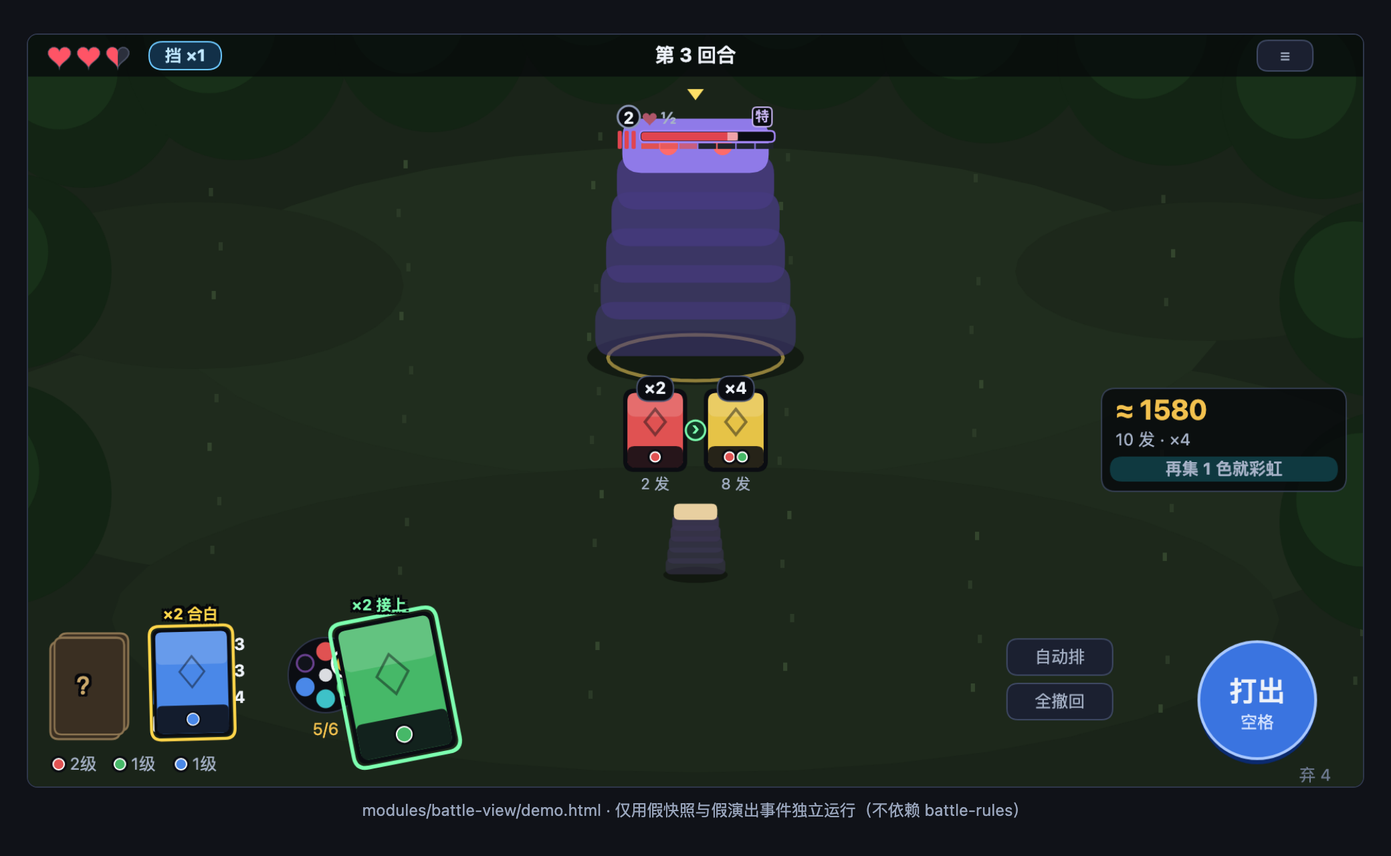
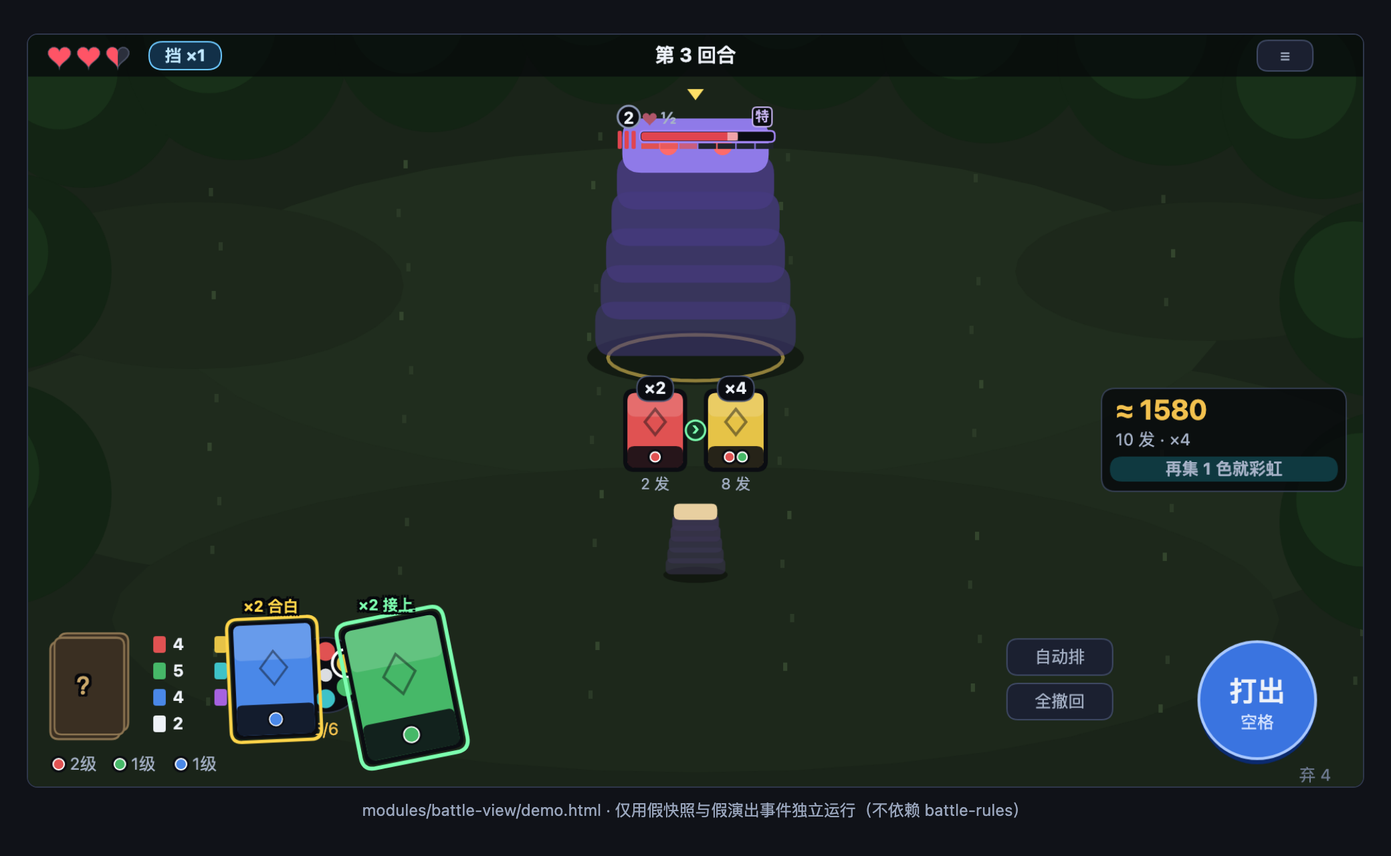
[claude] 摸牌第 4 版：先摸 2、不到 N 补到 N、回合开始最多 N+2；战斗键上写下回合几张；加攒牌假玩家

Changed region(s): [[0.0938, 0.6875, 0.3438, 0.9062]]

diff --git a/原型/neon/modules/battle-rules/engine.js b/原型/neon/modules/battle-rules/engine.js
@@ -27,7 +27,10 @@ import {
 } from './chain-math.js';
 
 const DEFAULT_CFG = Object.freeze({
-  drawMode: 'refill',
+  // 第 4 版 5.1（用户定的）：每回合先摸 2 张，不到 N 补到 N；回合开始手里最多 N + 2 张
+  drawMode: 'draw_floor',
+  drawPerTurn: 2,
+  handOverN: 2,
   freeKeepCount: 0,
   shieldActiveMultiplier: 0.75,
   shieldBrokenMultiplier: 1.5,
@@ -288,6 +291,21 @@ export function createBattle(startPacket, options = {}) {
     }
     hand.push(card);
     return { card, overflowed: false };
+  }
+
+  /** 第 4 版摸牌：手里留着 kept 张，回合开始先摸几张（不算「不到 N 补到 N」那步） */
+  function floorDrawCount(kept) {
+    const freeKeep = Math.max(0, (cfg.freeKeepCount || 0) + (ruleVal('extraFreeKeep') || 0));
+    const cap = Math.min(cfg.maxHandSize, player.drawTarget + (cfg.handOverN ?? 2) + freeKeep + bonusDrawNextTurn);
+    return Math.max(0, Math.min((cfg.drawPerTurn ?? 2) + bonusDrawNextTurn, cap - kept));
+  }
+
+  /** 手里留着 kept 张结束回合，下回合开始手里大概几张（不算牌堆摸空；给画面提示用） */
+  function nextTurnHandSize(kept) {
+    if (cfg.drawMode === 'draw_one') return Math.min(cfg.maxHandSize, kept + 1);
+    if (cfg.drawMode === 'draw_floor') return Math.max(player.drawTarget, kept + floorDrawCount(kept));
+    const freeKept = Math.min(kept, Math.max(0, (cfg.freeKeepCount || 0) + (ruleVal('extraFreeKeep') || 0)));
+    return Math.max(kept, Math.min(cfg.maxHandSize, player.drawTarget + freeKept + bonusDrawNextTurn));
   }
 
   function drawCards(count, colorFilter = null) {
@@ -807,6 +825,14 @@ export function createBattle(startPacket, options = {}) {
     if (cfg.drawMode === 'draw_one') {
       const toDraw = turn === 1 ? Math.max(1, Math.min(3, player.drawTarget)) : 1;
       drawCards(toDraw);
+    } else if (cfg.drawMode === 'draw_floor') {
+      // 第 4 版：先摸 2 张（加成的「下回合多补」也加在这），摸完不到 N 就补到 N。
+      // 回合开始手里最多 N + 2 张（「多留 1 张不占名额」这类加成再往上加）：管住「攒几回合一把打爆」。
+      // 回合中间「马上摸几张」不受这条管，照旧最多 12 张。
+      const toDraw = floorDrawCount(hand.length);
+      bonusDrawNextTurn = 0;
+      if (toDraw > 0) drawCards(toDraw);
+      if (hand.length < player.drawTarget) drawCards(player.drawTarget - hand.length);
     } else {
       // 补到 N 张；如开启 freeKeepCount，留下的前 K 张不占名额（第 3 版开关）
       const kept = hand.length;
@@ -869,6 +895,8 @@ export function createBattle(startPacket, options = {}) {
         maxHearts: player.maxHearts,
         drawTarget: player.drawTarget,
         maxHandSize: cfg.maxHandSize,
+        // 留着手里这些牌（链上的会打出去）结束回合，下回合开始手里几张（5.1 第 4 版，给画面提示）
+        nextTurnHand: nextTurnHandSize(hand.length),
         stats: {
           attack: getEffectiveStats().attack,
           damageBonus: getEffectiveStats().damageBonus + getEffectiveStats().hitPercent,

diff --git a/原型/neon/tools/sim-run.js b/原型/neon/tools/sim-run.js
@@ -1,5 +1,6 @@
 // 阶段 4 假玩家：从头跑一整趟（设计稿 10.4）。只用 battle-rules、run-rules、content，不碰画面。
 // 用法：node tools/sim-run.js [--runs 300]
+// 摸牌照第 4 版 5.1：先摸 2，不到 N 补到 N，回合开始最多 N + 2；有一组「攒牌」的假玩家，看攒牌是不是永远最好。
 //
 // 假玩家怎么走：每回合先用掉马上用的牌，再「自动帮排·最长」打出去；奖励挑第一个（加成挑跟已有路子对得上的）；
 // 出口：心 ≤ 1 就走「回去」，否则往里走；歇脚先回心；事件挑第一个能选的。
@@ -29,11 +30,22 @@ function playUsefulInstants(battle) {
 // 像真人：一半回合排到最好，一半回合只照手里的顺序排（设计稿 9.2 按「真人排到七成」算）
 let HUMAN = false;
 let humanTick = 0;
+// 攒牌（5.1 第 4 版要看的）：手里没到 N + 2、怪也不是下回合就出手，就一张不打，攒着一把打
+let HOARD = false;
+// 试别的摸牌数：DRAW=1 OVER=1 node tools/sim-run.js
+const DRAW_OVERRIDE = process.env.DRAW ? { drawPerTurn: Number(process.env.DRAW), handOverN: Number(process.env.OVER ?? 2) } : null;
 function fight(packet) {
+  if (DRAW_OVERRIDE) packet = { ...packet, rulesConfig: { ...packet.rulesConfig, ...DRAW_OVERRIDE } };
   const b = createBattle(packet);
   let out = null;
   for (let t = 0; t < 40 && !b.getResult(); t++) {
     playUsefulInstants(b);
+    if (HOARD) {
+      const snap = b.getSnapshot();
+      const full = snap.hand.length >= snap.player.drawTarget + (DRAW_OVERRIDE?.handOverN ?? 2);
+      const danger = snap.monsters.some((m) => m.alive !== false && m.countdown <= 1);
+      if (!full && !danger) { out = b.commitChain(); continue; }
+    }
     if (HUMAN && (humanTick++ % 2 === 1)) {
       for (const c of b.getSnapshot().hand) if (!c.hidden && c.usage === 'chain') b.queueCard(c.uid);
     } else b.autoArrange('longest');
@@ -130,6 +142,9 @@ HUMAN = true;
 report('像真人（一半回合不排）· C 级武器', { equipped: { weapon: 'gear_c_weapon_1', armor: null, trinket: null } });
 report('像真人（一半回合不排）· 免费基础装', { equipped: { weapon: null, armor: null, trinket: null } });
 HUMAN = false;
+HOARD = true;
+report('攒牌（攒到 N + 2 张才打，怪要出手就打）· C 级武器', { equipped: { weapon: 'gear_c_weapon_1', armor: null, trinket: null } });
+HOARD = false;
 report('C 级武器，第 1 层打完就回去（C 级任务的走法）', { equipped: { weapon: 'gear_c_weapon_1', armor: null, trinket: null }, returnAtLayer: 1 });
 
 // ───────── 金币：新手按「死一半」算 100 趟（设计稿 8.3、9.2）─────────

diff --git a/原型/neon/modules/battle-rules/test/battle-rules.test.js b/原型/neon/modules/battle-rules/test/battle-rules.test.js
@@ -415,3 +415,31 @@ test('摸牌开关（draw_one 与 freeKeepCount）正常工作', () => {
   const r2 = b2.commitChain();
   assert.equal(r2.snapshot.hand.length, 5);
 });
+
+test('第 4 版摸牌（draw_floor）：先摸 2，不到 N 补到 N，回合开始最多 N + 2', () => {
+  const deck = Array.from({ length: 40 }, (_, i) => makeGem(`g-${i}`, 'red', ['red']));
+  const b = createBattle(makePacket({
+    deck,
+    drawTarget: 4,
+    rulesConfig: { drawMode: 'draw_floor', drawPerTurn: 2, handOverN: 2 },
+    monsters: [makeMonster({ maxHp: 9999999 })],
+  }));
+  const handLen = () => b.getSnapshot().hand.length;
+  const play = (n) => { b.getSnapshot().hand.slice(0, n).forEach((c) => b.queueCard(c.uid)); return b.commitChain().snapshot.hand.length; };
+  assert.equal(handLen(), 4, '起手补到 N');
+  assert.equal(play(0), 6, '一张不打：留 4 摸 2');
+  assert.equal(play(0), 6, '再不打：到 N + 2 就不摸了');
+  assert.equal(play(3), 5, '打 3 留 3：摸 2');
+  assert.equal(play(4), 4, '打 4 留 1：摸 2 只有 3，补到 N');
+
+  // N 跟着养成涨，上限一起涨（摸牌加成不会被卡死）
+  const b5 = createBattle(makePacket({
+    deck,
+    drawTarget: 5,
+    rulesConfig: { drawMode: 'draw_floor', drawPerTurn: 2, handOverN: 2 },
+    monsters: [makeMonster({ maxHp: 9999999 })],
+  }));
+  assert.equal(b5.getSnapshot().hand.length, 5);
+  assert.equal(b5.commitChain().snapshot.hand.length, 7);
+  assert.equal(b5.commitChain().snapshot.hand.length, 7);
+});

diff --git a/原型/neon/modules/content/index.js b/原型/neon/modules/content/index.js
@@ -107,9 +107,11 @@ export const DECK_LOADOUTS = Object.freeze({
   }),
 });
 
-/** 默认规则开关（对应设计稿第 3 版默认值） */
+/** 默认规则开关（对应设计稿默认值；摸牌是第 4 版 5.1） */
 export const DEFAULT_RULES_CONFIG = Object.freeze({
-  drawMode: 'refill',
+  drawMode: 'draw_floor',
+  drawPerTurn: 2,
+  handOverN: 2,
   freeKeepCount: 0,
   shieldActiveMultiplier: 0.75,
   shieldBrokenMultiplier: 1.5,
@@ -176,6 +178,8 @@ export function createBattlePacket({
     seed,
     rulesConfig: {
       drawMode: mergedConfig.drawMode,
+      drawPerTurn: mergedConfig.drawPerTurn,
+      handOverN: mergedConfig.handOverN,
       freeKeepCount: mergedConfig.freeKeepCount,
       shieldActiveMultiplier: mergedConfig.shieldActiveMultiplier,
       shieldBrokenMultiplier: mergedConfig.shieldBrokenMultiplier,
@@ -226,6 +230,8 @@ export function createRunContent() {
     gearDefs: GEAR_DEFS,
     defaultRules: {
       drawMode: DEFAULT_RULES_CONFIG.drawMode,
+      drawPerTurn: DEFAULT_RULES_CONFIG.drawPerTurn,
+      handOverN: DEFAULT_RULES_CONFIG.handOverN,
       freeKeepCount: DEFAULT_RULES_CONFIG.freeKeepCount,
       shieldActiveMultiplier: DEFAULT_RULES_CONFIG.shieldActiveMultiplier,
       shieldBrokenMultiplier: DEFAULT_RULES_CONFIG.shieldBrokenMultiplier,

diff --git a/原型/neon/app/scenes/lobby.js b/原型/neon/app/scenes/lobby.js
@@ -223,7 +223,7 @@ export function createLobbyScene(context) {
 
   function settingRows() {
     return [
-      { label: '摸牌', value: rulesConfig.drawMode === 'refill' ? '每回合补到 N 张' : '每回合摸 1 张（第 1 版）', click: () => { rulesConfig.drawMode = rulesConfig.drawMode === 'refill' ? 'draw_one' : 'refill'; } },
+      { label: '摸牌', value: ({ draw_floor: '摸 2，不到 N 补到 N（第 4 版）', refill: '补到 N 张（第 3 版）', draw_one: '每回合摸 1 张（第 1 版）' })[rulesConfig.drawMode] || rulesConfig.drawMode, click: () => { const order = ['draw_floor', 'refill', 'draw_one']; rulesConfig.drawMode = order[(order.indexOf(rulesConfig.drawMode) + 1) % order.length]; } },
       { label: '每回合补到几张（N）', value: `${N_VALUES[drawTargetIdx]} 张`, click: () => { drawTargetIdx = (drawTargetIdx + 1) % N_VALUES.length; } },
       { label: '留 1 张不占名额', value: rulesConfig.freeKeepCount > 0 ? '开' : '关', click: () => { rulesConfig.freeKeepCount = rulesConfig.freeKeepCount > 0 ? 0 : 1; } },
       {

diff --git a/原型/neon/modules/battle-view/view.js b/原型/neon/modules/battle-view/view.js
@@ -415,6 +415,12 @@ export function createBattleView(options = {}) {
     txt(r, casting ? '…' : (snap.chain.length ? '打出' : '结束'), C.cx, C.cy - 6, { size: F.l, weight: 'bold', align: 'center' });
     txt(r, casting ? (speed > 1 ? '再点跳过' : '点画面加速') : '空格', C.cx, C.cy + 16, { size: F.xs, align: 'center', color: '#d6e4ff' });
     txt(r, `弃 ${snap.discardPileCount}`, C.cx + 30, C.cy + 54, { size: F.xs, color: T.text3 });
+    // 留几张、下回合手里几张（5.1 第 4 版：留牌也能摸，但回合开始最多 N + 2）
+    if (!casting && snapshot.phase === 'player_input' && Number.isFinite(snap.player?.nextTurnHand)) {
+      const kept = snap.hand.length;
+      const line = kept ? `留 ${kept} 张 → 下回合 ${snap.player.nextTurnHand} 张` : `下回合 ${snap.player.nextTurnHand} 张`;
+      txt(r, line, C.cx, C.cy - C.r - 12, { size: F.xs, align: 'center', color: kept ? '#d6e4ff' : T.text3 });
+    }
 
     // 不在播放里的小字（马上用的功能牌等）
     for (let i = notes.length - 1; i >= 0; i--) {

diff --git a/原型/neon/modules/shared/contracts.js b/原型/neon/modules/shared/contracts.js
@@ -380,8 +380,11 @@ export function validateBattleStartPacket(packet, actionTable = DEFAULT_ACTION_T
     if (!isPlainObject(cfg)) {
       errors.push('rulesConfig 如果提供，必须是对象');
     } else {
-      if (cfg.drawMode !== undefined && !['refill', 'draw_one'].includes(cfg.drawMode)) {
-        errors.push('rulesConfig.drawMode 只能是 refill 或 draw_one');
+      if (cfg.drawMode !== undefined && !['draw_floor', 'refill', 'draw_one'].includes(cfg.drawMode)) {
+        errors.push('rulesConfig.drawMode 只能是 draw_floor、refill 或 draw_one');
+      }
+      for (const k of ['drawPerTurn', 'handOverN']) {
+        if (cfg[k] !== undefined && !isNonNegativeInt(cfg[k])) errors.push(`rulesConfig.${k} 必须是非负整数`);
       }
       if (cfg.freeKeepCount !== undefined && !isNonNegativeInt(cfg.freeKeepCount)) {
         errors.push('rulesConfig.freeKeepCount 必须是非负整数');

diff --git a/设计/设计.md b/设计/设计.md
@@ -9,7 +9,7 @@
 > - 标「**第 2 版改**」的，是照第 1 轮审核改的。第 2 版标「待用户点头」的几条，第 3 版用户都点了头。
 > - 标「**第 3 版改**」的，是照第 2 轮审核改的，用户已经按倾向点了头。
 > - 第 8 节以后（任务、金币、冒险家等级、卡册、数值、工程）是一次写完的，用户按自己的意见改过一轮。第 8~10 节第 3 版用户都确认了。
-> - **第 4 版**（2026-11-23）：原型阶段 1~4 做完、用户试玩以后，把照倾向先做的内容一起定了（用户说「按你的设计来」），写进 9.3；画面改成按 1920×1080 设计（10.6，用户定的）；看门的、第 2 层精英的血照阶段 4 假玩家的结果降了（9.2）。
+> - **第 4 版**（2026-11-23）：摸牌改成「先摸 2 张、不到 N 补到 N、回合开始最多 N + 2」（5.1，用户定的）。原型阶段 1~4 做完、用户试玩以后，把照倾向先做的内容一起定了（用户说「按你的设计来」），写进 9.3；画面改成按 1920×1080 设计（10.6，用户定的）；看门的、第 2 层精英的血照阶段 4 假玩家的结果降了（9.2）。
 > - **设计稿和原型要对得上**（用户 2026-11-23 定的）：用户拍板的事，同一次提交里设计稿和原型一起改。原型暂时跟这份不一样的地方，记在原型自己的 `偏离.md`。
 > - 游戏暂叫 **code00**，原型阶段什么都不取名。
 
@@ -85,7 +85,7 @@
   - 带着任务物品活着回去，在工会提交任务换金币，买会磨损的装备、雇只管一趟的队友，再出发。
 - **一句话体验**：每一趟攒出一套「这把才有」的打法，打到后面数字炸开；死了回到大厅，也总有新东西让人想再进去一趟。
 - **一趟**：10~25 分钟，看接的任务要走多深；一个区接着往下一个区走，会更长。一个地点分三个区、六层，两层一个看门的；每个区有自己的入口，接什么等级的任务就从哪个区进（第 3 版定）。
-- **一仗**：1~3 分钟，回合不限时。每回合把手牌补到 N 张（N 从 4 起，养成最多到 8），出牌不限张数，一回合排一条链打出去。
+- **一仗**：1~3 分钟，回合不限时。每回合先摸 2 张、不到 N 张补到 N 张（N 从 4 起，养成最多到 8；回合开始最多 N + 2 张），出牌不限张数，一回合排一条链打出去。
 - **原型**：画面全用色块；不取名，牌和怪只写功能。
 
 ---
@@ -161,7 +161,7 @@
 ### 5.1　一回合
 
 1. **回合开始**，按这个先后（**第 3 版补**）：
-   1. 把手牌补到 N 张；
+   1. 摸牌：先摸 2 张，摸完不到 N 张就补到 N 张（**第 4 版改**，细节看下表）；
    2. 怪的「每回合开始」特性，比如换盾的颜色、遮住一张手牌；
    3. 玩家这边加成、装备的「每回合开始」效果；
    4. 「出牌前」出手的队友出手。
@@ -172,14 +172,15 @@
 
 | 项 | 规则 |
 |---|---|
-| 摸牌（**第 2 版改，第 3 版用户点了头**） | 每回合开始，把手牌补到 N 张。第 1 回合也一样，所以起手就是 N 张。N 从 4 起：一趟里最多 +2，永久养成 +1，稀有装备 +1，最多 8。摸牌是养成的重点（用户定的），N 就是那条养成线 |
-| 手牌 | 没打的留到下回合，**占名额**：留了 2 张，下回合只补 N − 2 张。所以留牌不会让链变长，只为下回合的颜色、凑彩虹。「马上摸 N 张」这类效果可以让这一回合超过 N 张，但手里最多 12 张。**照原型**（第 3 版补）：满 12 张以后再摸到的，直接进弃牌堆；回合开始手里已经有 N 张或更多，就不补，也不弃 |
-| 留牌（**第 3 版定**） | 留 1 张，这回合的发数就少一半以上，下回合也不会多（第 2 轮汇总第 1 节）。所以基础规则下**几乎每回合全打**，动脑的地方在排顺序、合白还是攒彩虹、先破盾。留牌只当一条路子（6.1），靠「留着的牌不占名额」这类加成撑起来 |
+| 摸牌（**第 4 版改，用户定的**） | 每回合开始**先摸 2 张**，摸完手里不到 N 张就**补到 N 张**；**回合开始时手里最多 N + 2 张**，到了就不再摸（「多留 1 张不占名额」这类加成、「下回合多补 1 张」再往上加）。第 1 回合手里是空的，所以起手就是 N 张。N 从 4 起：一趟里最多 +2，永久养成 +1，稀有装备 +1，最多 8。摸牌是养成的重点（用户定的），N 就是那条养成线 |
+| 手牌 | 没打的留到下回合。N = 4 时：留 0 张下回合 4 张，留 2 张还是 4 张，留 3 张 5 张，留 4 张 6 张，再不打也停在 6 张。上限跟着 N 涨（N = 5 就是 7 张），所以摸牌养成不会被卡住。回合中间「马上摸 N 张」这类效果不受 N + 2 管，但手里最多 12 张。**照原型**（第 3 版补）：满 12 张以后再摸到的，直接进弃牌堆；回合开始手里已经有 N 张或更多，就不补，也不弃 |
+| 留牌（**第 4 版改**） | 用户试玩：第 3 版留着的牌占名额，留 4 张下回合一张不补，等于逼着全打。第 4 版改成留着也摸 2 张，「这回合少打、下回合大打」是一个真的选择；上限 N + 2 管住「攒几回合一把打爆」 |
 | 心 | 只有主角有心，起手 3 颗（用户定的：主角用心，队友不掉血）。心跨片带着走，一趟里不会自动回满 |
 | 输赢 | 怪的血条全打空就赢；主角的心掉完，这一趟就死了。没有回合上限，不能逃跑 |
 
 - **为什么改**：第 1 版是「开战 3 张、每回合摸 1 张、手牌留着」，再加上倍率 ×2，「前三回合不出牌、第 4 回合一把打完」就永远最好。两家审核各自算出来都是这个结果（汇总第 1 节）。用户原型本来就是「每回合补到 8 张」，没有这个毛病。
-- **阶段 1 把摸牌规则做成开关**：补到 N 张（这一版）/ 第 1 版的每回合摸 1 张，用户各打 10 分钟再定。
+- **阶段 1 把摸牌规则做成开关**：试打台里能切第 4 版 / 第 3 版补到 N 张 / 第 1 版每回合摸 1 张。
+- **第 4 版的风险（假玩家量过，等用户看）**：倍率一张张翻，6 张一条链比两条 4 张的打得多得多。「攒到 6 张才打、怪要出手就打」的假玩家打第 2 层看门的 4.8 回合，每回合全打的要 7.4 回合，**攒牌明显更好**。改成「先摸 1 张、上限 N + 2」或「先摸 2 张、上限 N + 1」，攒牌跟全打就差不多了（7.3、7.2 回合）。数在 `原型/neon/shots/sim-run.txt`，用户先试手感再定。
 - **阶段 1 再加一个开关**（第 3 版加）：每回合可以留 1 张，不占名额。倍率一路翻，牌越集中在一回合打越赚，留 1 张往后挪一回合大约多 25%，所以这个开关可能让「每回合都留 1 张」变成新的永远最好。先用假玩家看，再给用户打。
 
 ### 5.2　宝石牌组和色环接链（用户原型的规则）
@@ -453,7 +454,7 @@
 | 功能牌 | 混进牌组。功能牌越多，摸到宝石就越少，所以不是越多越好 |
 | 加成 | 不占牌组，原型不设上限，摆在界面一边随时能看 |
 | 宝石等级 | 哪个颜色打得多，哪个颜色就越疼，每趟从 1 级起 |
-| N（每回合补到几张） | 最贵的东西，一趟里最多 +2 |
+| N（每回合至少有几张） | 最贵的东西，一趟里最多 +2 |
 | 属性 | 拿一次涨一截 |
 | 心 | 靠回心类的东西回；上限平时靠装备，极少数加成能涨 |
 
@@ -470,7 +471,7 @@
 | 项 | 起手 |
 |---|---|
 | 心 | 3 颗 |
-| 摸牌 | 每回合补到 4 张（第 2 版改） |
+| 摸牌 | 先摸 2 张、不到 4 张补到 4 张，回合开始最多 6 张（第 4 版改） |
 | 攻击 | 主角底子 + 装备 |
 | 增伤 | 0 |
 | 暴击 | 10%，每发 ×1.5 |
@@ -997,7 +998,7 @@
 
 | 什么 | 什么时候要 |
 |---|---|
-| **用户试玩提的（第 4 版）**：没打的牌留在手里占名额，留 4 张下回合一张不补，等于逼着全打。要不要改成留着也补牌、补多少（会碰到 5.1 防「攒几回合一把打爆」的那条） | 现在 |
+| 摸牌的两个数（5.1 第 4 版）：先摸几张、上限比 N 多几张。现在是 2 和 2，假玩家说攒牌太赚，倾向改成先摸 1 张或上限 N + 1，等用户试手感 | 现在 |
 | **没采纳的审核意见**，用户要是想要再说：倍率改阶梯、看门的血压低、群攻打六七成（理由见审核汇总） | 阶段 1 之前 |
 | 功能牌要不要单独一个牌堆（neon）。第 3 版无色的改成补摸 1 张，占名额的问题先这么解；阶段 1 看功能牌一仗能不能摸到、够不够用再说 | 阶段 1 以后 |
 | 「先付代价」的出口（claude，借哈迪斯的混沌门）：付什么、换什么 | 阶段 2 以后 |
@@ -1012,7 +1013,7 @@
 
 第 1 版的 10 条，审核后重排了。前四条是第 1 版漏掉、审核找出来的。
 
-1. **补到 N 张以后，留牌没分量**：第 2 轮算实了，留 1 张亏近六成，基础规则就是「几乎全打」（第 3 版接受了）。剩下的风险：「留牌」那条路子靠加成撑不撑得起来；「留 1 张不占名额」的开关会不会变成每回合都留。还有一样：「马上摸 N 张」能把手牌撑到 12 张，再夹「倍率 ×2」和彩虹，后期一回合的发数可能上万，阶段 1 压测要放进去。
+1. **攒牌**（第 4 版重写）：第 4 版留着也摸 2 张、上限 N + 2，假玩家攒到 6 张才打比每回合全打快得多（5.1）。要么把先摸的张数降到 1，要么上限降到 N + 1，等用户试手感。以下是第 3 版的：**补到 N 张以后，留牌没分量**：第 2 轮算实了，留 1 张亏近六成，基础规则就是「几乎全打」（第 3 版接受了）。剩下的风险：「留牌」那条路子靠加成撑不撑得起来；「留 1 张不占名额」的开关会不会变成每回合都留。还有一样：「马上摸 N 张」能把手牌撑到 12 张，再夹「倍率 ×2」和彩虹，后期一回合的发数可能上万，阶段 1 压测要放进去。
 2. **「先破还是先打」有没有分量**：全打以后削多少盾是摸牌定的，玩家只能选排的顺序。第 3 版去掉了合白削盾、破盾改推 1 格、盾加厚，看门的不会再被一直推着打不出手。但取舍可能还是太小，阶段 1 用「按破盾排」对「按最长的链排」两种假玩家量。
 3. **慢慢往「算死」那边靠**：心少、怪下一手全亮、牌堆剩几张全显示，玩家会去算「怎么一点血都不掉」。补到 N 张以后进的牌多、随机多一点，但还要看试玩。
 4. **每层的坡**：第 3 版改成分区入口，同一区里两层只差 2~3 倍，跨区 12~14 倍。纸面上「再往第 2 层赌一把」有得赌了，但一层只有两三次奖励，赌不赌得赢要看加成给得够不够，阶段 2 量每层的通过率。另外深处区一个区就要换两档装备，SS 换 SSS 那一下单发 ×2，阶段 4 模拟器看会不会变成「不换装备就别来」。

diff --git a/进度.md b/进度.md
@@ -11,10 +11,13 @@
   - 修了：林子里藏着的东西、任务物品原来可能放在最上边走不到、跟出口牌子叠着，现在都挪进场地里；走近了下面写一行「怎么拿」。
 - **新规矩**：设计稿和原型要对得上，用户拍板的同一次提交里一起改（`CLAUDE.md` 第 3 节）。
 
-**下一步**：跟用户定「没打的牌占名额、逼着全打」（用户试玩提的，设计稿第 11 节第一行）。会碰到 5.1 防「攒几回合一把打爆」的那条，算设计改动，要用户挑方案再改。
+- **摸牌改了（用户定的，设计稿 5.1 第 4 版）**：每回合先摸 2 张，不到 N 补到 N，回合开始最多 N + 2。战斗里「结束 / 打出」键上面写「留几张 → 下回合几张」。试打台还能切回第 3 版、第 1 版。
+  - 假玩家：攒到 6 张才打的，打第 2 层看门的 4.8 回合，全打的 7.4 回合，**攒牌太赚**。先摸 1 张或上限 N + 1 就差不多（7.3、7.2）。数没改，等用户试手感。
+
+**下一步**：用户试新摸牌的手感，再定「先摸几张、上限比 N 多几张」（设计稿第 11 节第一行）。
 
 **还剩多少设计没定**（每次回复都要报）：
-- 现在要定的：没打的牌占名额那条。
+- 现在要定的：摸牌的两个数（现在 2 和 2，倾向改成先摸 1 张或上限 N + 1）。
 - 搁着 / 以后：功能牌单独一个牌堆、宝石等级改成小效果、先付代价的出口、SSS 以后靠什么再来一把；怪的样子和名字、所有东西的名字、正式美术、剧情、最终目标。
 
 **要注意的**（全部规矩在 `CLAUDE.md`，这里只挑最容易犯的）：
@@ -118,3 +121,4 @@
 - 2026-11-23　[claude] 阶段 2~4 做完：大厅一整圈、12 个加成、假玩家跑整趟（数没改，结果在 `原型/neon/阶段4-假玩家结果.md`）；`CLAUDE.md`、`AGENTS.md` 加了用户的堆叠美术以后放进来这条。
 - 2026-11-23　加规矩「设计稿和原型要对得上」：`CLAUDE.md`、`AGENTS.md` 第 3 节，`原型/README.md` 第 4 条。
 - 2026-11-23　用户试玩后定了：画面按 1920×1080 设计，其他照倾向。设计稿改第 4 版（9.3 原型内容、10.6 画面框架、9.2 第 2 层精英和看门的血、第 11 节）；原型：画布按 1920×1080 画、看门的 / 精英降血、林子里的东西挪到走得到的地方并加提示；`偏离.md`、两份给用户挑、阶段 4 结果跟上。
+- 2026-11-23　摸牌改成「先摸 2、不到 N 补到 N、回合开始最多 N + 2」（用户定的）：设计稿 5.1、0、6.4、11、12；`battle-rules` 新模式 `draw_floor` 当默认、快照多 `nextTurnHand`；战斗键上写下回合几张；`tools/sim-run.js` 加攒牌假玩家，测出攒牌太赚，等用户定数。

diff --git a/原型/neon/进度.md b/原型/neon/进度.md
@@ -8,8 +8,10 @@
 - 空地：藏着的东西、任务物品的位子挪进场地里（原来最上边两个位子走不到、压着出口牌子），走近了下面写「怎么拿」；`explore-view` 加了 40 片随机空地都拿得到的单测。
 - 单测 76 项全过；`npm run shot` 20 张截图无报错。
 
+- 摸牌（设计稿 5.1 第 4 版）：`battle-rules` 新的 `drawMode: 'draw_floor'`（`drawPerTurn` 2、`handOverN` 2）当默认；快照 `player.nextTurnHand`；战斗键上面写「留几张 → 下回合几张」；试打台「摸牌」能在第 4 / 3 / 1 版之间切。`tools/sim-run.js` 有攒牌假玩家，`DRAW=1 OVER=2 node tools/sim-run.js` 能试别的数。攒牌现在太赚（看门的 4.8 回合对 7.4），等用户定数。
+
 **下一步**：
-1. 等用户定「没打的牌占名额、逼着全打」（设计稿第 11 节第一行），定了同一次提交改设计稿和 `battle-rules`。
+1. 等用户试新摸牌的手感，定「先摸几张、上限比 N 多几张」（设计稿第 11 节第一行），改 `content` 的 `DEFAULT_RULES_CONFIG` 和设计稿 5.1。
 2. 小毛病：「自动帮排」不认加成和强化；战斗里强化过的牌没记号；战斗试玩记录没导出；三种画面还没统一状态栏（设计稿 10.6）。
 
 ## 记录
@@ -32,3 +34,4 @@
 - 2026-11-23　[claude] 阶段 4：`tools/sim-run.js`（整趟 + 金币，两种假玩家），结果和建议写在 `阶段4-假玩家结果.md`（数没改）；截图工具加大厅、工会、出发、空地和新模块 demo 页，`main.js` 加 `?run=1`、`?panel=`、`?scene=trial`；README 重写，`偏离.md` 第 6 条。
 - 2026-11-23　（claude）照新规矩「设计稿和原型要对得上」：以后用户拍板的同时改设计稿和原型。
 - 2026-11-23　（claude）用户试玩后：画布按 1920×1080 画；看门的 / 第 2 层精英降血并重跑假玩家；林子里的东西挪到走得到的地方、加「怎么拿」提示和单测；`偏离.md`、给用户挑、阶段 4 结果标成已定。
+- 2026-11-23　（claude）摸牌改成第 4 版 `draw_floor`，加下回合几张的提示和攒牌假玩家（结果：攒牌太赚，等用户定数）。

diff --git a/AGENTS.md b/AGENTS.md
@@ -23,7 +23,7 @@
   - 用户点头了，再改 `设计/设计.md`。
 - **先后改了（用户 2026-11-23）：功能先行。** 战斗布局定成上下布局（候选页 `原型/neon/modules/battle-view/proposals/updown.html`），但先不搬进真原型；接下来先做阶段 1 后半段的 4 个加成、2 个队友和假玩家。界面细节（画面框架那几问）先搁着。
 - **用户说了「等待我的指令」：没有用户的明确指令，不写原型代码。**
-- **用户 2026-11-23 让 claude 接手把原型做完**：阶段 2（走一趟）、阶段 3（大厅一整圈）、阶段 4（假玩家跑整趟）都做了。用户试玩以后说「按你的设计来」，照倾向做的内容都定了，写进**设计稿第 4 版**（9.3 内容、10.6 画面框架，画面按 1920×1080 设计）。还要跟用户定的：没打的牌占名额、逼着全打（设计稿第 11 节第一行）。
+- **用户 2026-11-23 让 claude 接手把原型做完**：阶段 2（走一趟）、阶段 3（大厅一整圈）、阶段 4（假玩家跑整趟）都做了。用户试玩以后说「按你的设计来」，照倾向做的内容都定了，写进**设计稿第 4 版**（9.3 内容、10.6 画面框架，画面按 1920×1080 设计）。摸牌改成「先摸 2 张、不到 N 补到 N、回合开始最多 N + 2」（5.1）；还要跟用户定这两个数（假玩家说攒牌太赚，设计稿第 11 节第一行）。
 - 开工以后，代码放 `原型/<做的人>/`（比如 `原型/claude/`），规矩见 `原型/README.md`，从设计稿 10.4 的阶段 0 做起。
 
 ## 3. 做事的规矩

diff --git a/CLAUDE.md b/CLAUDE.md
@@ -23,7 +23,7 @@
   - 用户点头了，再改 `设计/设计.md`。
 - **先后改了（用户 2026-11-23）：功能先行。** 战斗布局定成上下布局（候选页 `原型/neon/modules/battle-view/proposals/updown.html`），但先不搬进真原型；接下来先做阶段 1 后半段的 4 个加成、2 个队友和假玩家。界面细节（画面框架那几问）先搁着。
 - **用户说了「等待我的指令」：没有用户的明确指令，不写原型代码。**
-- **用户 2026-11-23 让 claude 接手把原型做完**：阶段 2（走一趟）、阶段 3（大厅一整圈）、阶段 4（假玩家跑整趟）都做了。用户试玩以后说「按你的设计来」，照倾向做的内容都定了，写进**设计稿第 4 版**（9.3 内容、10.6 画面框架，画面按 1920×1080 设计）。还要跟用户定的：没打的牌占名额、逼着全打（设计稿第 11 节第一行）。
+- **用户 2026-11-23 让 claude 接手把原型做完**：阶段 2（走一趟）、阶段 3（大厅一整圈）、阶段 4（假玩家跑整趟）都做了。用户试玩以后说「按你的设计来」，照倾向做的内容都定了，写进**设计稿第 4 版**（9.3 内容、10.6 画面框架，画面按 1920×1080 设计）。摸牌改成「先摸 2 张、不到 N 补到 N、回合开始最多 N + 2」（5.1）；还要跟用户定这两个数（假玩家说攒牌太赚，设计稿第 11 节第一行）。
 - 开工以后，代码放 `原型/<做的人>/`（比如 `原型/claude/`），规矩见 `原型/README.md`，从设计稿 10.4 的阶段 0 做起。
 
 ## 3. 做事的规矩
